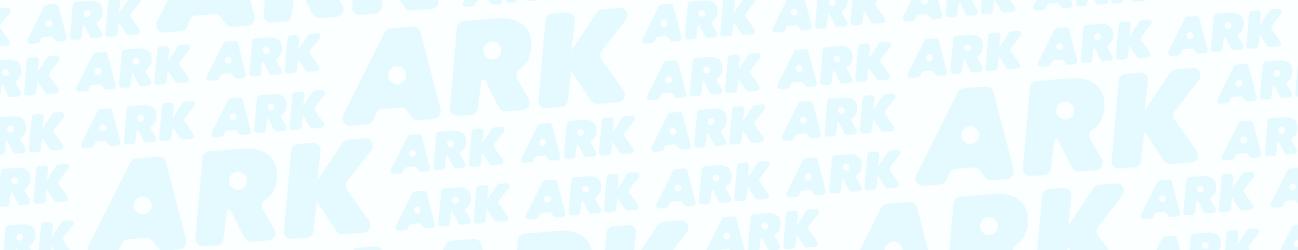
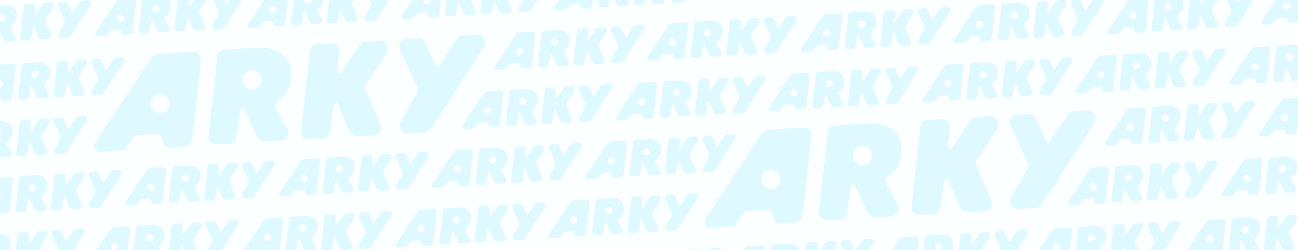
update ark to arky

diff --git a/src/app/components/ArkComponents/ArkTopBar/ArkTopBar.tsx b/src/app/components/ArkComponents/ArkTopBar/ArkTopBar.tsx
@@ -18,7 +18,7 @@ import { ReactComponent as MenuIcon } from "app/components/TopBar/menu.svg";
 import RewardsInfoButton from "app/layouts/RewardsInfoButton";
 import { AppTheme } from "app/theme/types";
 import { useRouter } from "app/utils";
-import ArkLogo from "./ark-logo.png";
+import ArkyLogo from "./logo-arky-small.png";
 
 const useStyles = makeStyles((theme) => ({
   root: {
@@ -144,14 +144,14 @@ const ArkTopBar: React.FC<
                 className={classes.brandButton}
                 disableRipple
               >
-                <img src={ArkLogo} alt="logo" className={classes.logo} />
+                <img src={ArkyLogo} alt="logo" className={classes.logo} />
               </Button>
             </Box>
           </Fragment>
         ) : (
           <Grid container>
             <Box className={classes.brandBox}>
-              <img src={ArkLogo} alt="logo" className={classes.logo} />
+              <img src={ArkyLogo} alt="logo" className={classes.logo} />
             </Box>
             <Box className={classes.navLinkBox}>
               <Button

diff --git a/src/app/views/ark/Profile/components/EditProfile/EditProfile.tsx b/src/app/views/ark/Profile/components/EditProfile/EditProfile.tsx
@@ -344,7 +344,7 @@ const EditProfile: React.FC<React.HTMLAttributes<HTMLDivElement>> = (props: any)
                 <ArkInput
                   placeholder="BearCollector" error={errors.username} value={inputValues.username}
                   label="DISPLAY NAME" onValueChange={(value) => updateInputs("username")(value)}
-                  instruction="This is how other users identify you on ARK." wordLimit={20}
+                  instruction="This is how other users identify you on ARKY." wordLimit={20}
                 />
                 {/* <ArkInput
                   placeholder="bearsarecute@example.com" error={errors.email} value={inputValues.email}

diff --git a/src/app/components/ArkComponents/ArkAcceptBidDialog/AcceptBidDialog.tsx b/src/app/components/ArkComponents/ArkAcceptBidDialog/AcceptBidDialog.tsx
@@ -99,7 +99,7 @@ const AcceptBidDialog: React.FC<Props> = (props: Props) => {
           </CardContent>
         </Card>
         <FormControlLabel
-          label={<Typography className={classes.checkboxText}>By checking this box, I accept ARK’s terms and conditions.</Typography>}
+          label={<Typography className={classes.checkboxText}>By checking this box, I accept ARKY’s terms and conditions.</Typography>}
           control={
             <Checkbox
               icon={<UnChecked />} checkedIcon={<Checked />}

diff --git a/src/app/views/ark/NftView/components/SalesDetail/SalesDetail.tsx b/src/app/views/ark/NftView/components/SalesDetail/SalesDetail.tsx
@@ -115,7 +115,7 @@ const SalesDetail: React.FC<Props> = (props: Props) => {
 
         <Box mt={2} display="flex" flexDirection="column">
           <Box className={classes.infoBoxContainer}>
-            {/* <InfoBox topLabel="ARK Score" bottomLabel="Top 51.1%" tooltip={""} flex={1}>
+            {/* <InfoBox topLabel="ARKY Score" bottomLabel="Top 51.1%" tooltip={""} flex={1}>
               <Typography className={classes.rarityLabel} variant="h3">SUPAH RARE</Typography>
             </InfoBox> */}
 
